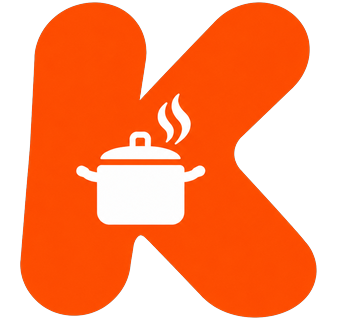
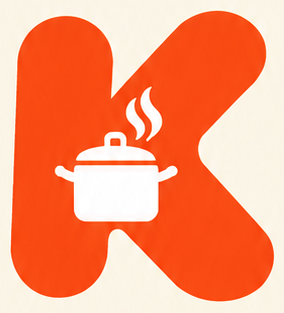
New loading screen artwork
Claude-Session: https://claude.ai/code/session_01PgzxFwA2Uv5DuMmXL6Tuyu

Changed region(s): [[0.0, 0.0, 1.0, 1.0]]

diff --git a/components/IntroAnimation.tsx b/components/IntroAnimation.tsx
@@ -4,27 +4,24 @@ import { AccessibilityInfo, Animated, Easing, Pressable, StyleSheet, useWindowDi
 
 import { useAnimatedValue } from '@/lib/useAnimatedValue';
 
-// The opening picture, cut into layers. Positions are in the original 852 x 1846 artwork.
-const ART = { width: 852, height: 1846 };
-const BACKGROUND = '#F8F1E6';
+// The loading screen artwork, cut into layers. Positions are in the original 841 x 1870 picture.
+const ART = { width: 841, height: 1870 };
+const BACKGROUND = '#FAF5E7';
 const LAYERS = {
-  scene: { source: require('@/assets/intro/scene.jpg'), x: 0, y: 800, width: 852, height: 1046 },
-  mark: { source: require('@/assets/intro/mark.png'), x: 272, y: 354, width: 338, height: 320 },
-  word: { source: require('@/assets/intro/word.png'), x: 177, y: 696, width: 499, height: 147 },
-  tagline: { source: require('@/assets/intro/tagline.png'), x: 230, y: 871, width: 392, height: 75 },
+  waves: { source: require('@/assets/intro/waves.png'), x: 0, y: 1528, width: 841, height: 342 },
+  mark: { source: require('@/assets/intro/mark.png'), x: 283, y: 630, width: 284, height: 313 },
+  word: { source: require('@/assets/intro/word.png'), x: 185, y: 953, width: 477, height: 155 },
 };
 
 /**
- * The Kitchy's opening animation: the food scene rises in, the K pops, the name and
- * "Real food. Real chefs. Near you." follow, then everything fades into the app.
- * Tap to skip. Shorter when the phone asks for reduced motion.
+ * The Kitchy's opening animation: the orange waves rise in, the K pops and the name follows,
+ * then everything fades into the app. Tap to skip. Shorter when the phone asks for reduced motion.
  */
 export function IntroAnimation({ onDone }: { onDone: () => void }) {
   const { width: screenW, height: screenH } = useWindowDimensions();
-  const scene = useAnimatedValue(0);
+  const waves = useAnimatedValue(0);
   const mark = useAnimatedValue(0);
   const word = useAnimatedValue(0);
-  const tagline = useAnimatedValue(0);
   const fade = useAnimatedValue(1);
   const finished = useRef(false);
 
@@ -40,31 +37,31 @@ export function IntroAnimation({ onDone }: { onDone: () => void }) {
       .catch(() => false)
       .then((reduce) => {
         if (reduce) {
-          [scene, mark, word, tagline].forEach((v) => v.setValue(1));
+          [waves, mark, word].forEach((v) => v.setValue(1));
           timer = setTimeout(finish, 900);
           return;
         }
         const ease = Easing.out(Easing.cubic);
         Animated.parallel([
-          Animated.timing(scene, { toValue: 1, duration: 750, easing: ease, useNativeDriver: true }),
+          Animated.timing(waves, { toValue: 1, duration: 750, easing: ease, useNativeDriver: true }),
           Animated.spring(mark, { toValue: 1, delay: 180, friction: 5, tension: 70, useNativeDriver: true }),
           Animated.timing(word, { toValue: 1, delay: 480, duration: 450, easing: ease, useNativeDriver: true }),
-          Animated.timing(tagline, { toValue: 1, delay: 820, duration: 450, easing: ease, useNativeDriver: true }),
         ]).start();
-        timer = setTimeout(finish, 2300);
+        timer = setTimeout(finish, 2000);
       });
     return () => clearTimeout(timer);
     // Runs once when the intro appears.
     // eslint-disable-next-line react-hooks/exhaustive-deps
   }, []);
 
-  // Fit the artwork to the screen: fill the width (at most a phone's width on big screens),
-  // keep the food scene on the bottom edge and the logo below the status bar.
-  const width = Math.min(screenW, 480);
-  let scale = width / ART.width;
-  if (ART.height * scale < screenH) scale = screenH / ART.height;
+  // Fit the artwork to the screen like the picture: logo in the middle, waves on the bottom edge,
+  // at most a phone's width on big screens.
+  const scale = Math.min(screenW, 480) / ART.width;
   const offsetX = (screenW - ART.width * scale) / 2;
-  const offsetY = Math.max(screenH - ART.height * scale, 56 - (LAYERS.mark.y - 24) * scale);
+  // Centre the K and the name the way they sit in the picture.
+  const logoCentre = (LAYERS.mark.y + LAYERS.word.y + LAYERS.word.height) / 2;
+  const offsetY = screenH * (logoCentre / ART.height) - logoCentre * scale;
+  const wavesTop = screenH - LAYERS.waves.height * scale;
 
   const place = (layer: (typeof LAYERS)[keyof typeof LAYERS]) => ({
     position: 'absolute' as const,
@@ -79,13 +76,13 @@ export function IntroAnimation({ onDone }: { onDone: () => void }) {
       <Pressable style={StyleSheet.absoluteFill} onPress={finish} accessibilityLabel="Kitchy's">
         <Animated.View
           style={[
-            place(LAYERS.scene),
+            { position: 'absolute', left: 0, right: 0, top: wavesTop, bottom: 0 },
             {
-              opacity: scene,
-              transform: [{ translateY: scene.interpolate({ inputRange: [0, 1], outputRange: [140 * scale, 0] }) }],
+              opacity: waves,
+              transform: [{ translateY: waves.interpolate({ inputRange: [0, 1], outputRange: [120 * scale, 0] }) }],
             },
           ]}>
-          <Image source={LAYERS.scene.source} style={StyleSheet.absoluteFill} contentFit="cover" />
+          <Image source={LAYERS.waves.source} style={StyleSheet.absoluteFill} contentFit="cover" contentPosition="top" />
         </Animated.View>
 
         <Animated.View
@@ -113,16 +110,6 @@ export function IntroAnimation({ onDone }: { onDone: () => void }) {
           <Image source={LAYERS.word.source} style={StyleSheet.absoluteFill} contentFit="contain" />
         </Animated.View>
 
-        <Animated.View
-          style={[
-            place(LAYERS.tagline),
-            {
-              opacity: tagline,
-              transform: [{ translateY: tagline.interpolate({ inputRange: [0, 1], outputRange: [16 * scale, 0] }) }],
-            },
-          ]}>
-          <Image source={LAYERS.tagline.source} style={StyleSheet.absoluteFill} contentFit="contain" />
-        </Animated.View>
       </Pressable>
     </Animated.View>
   );
